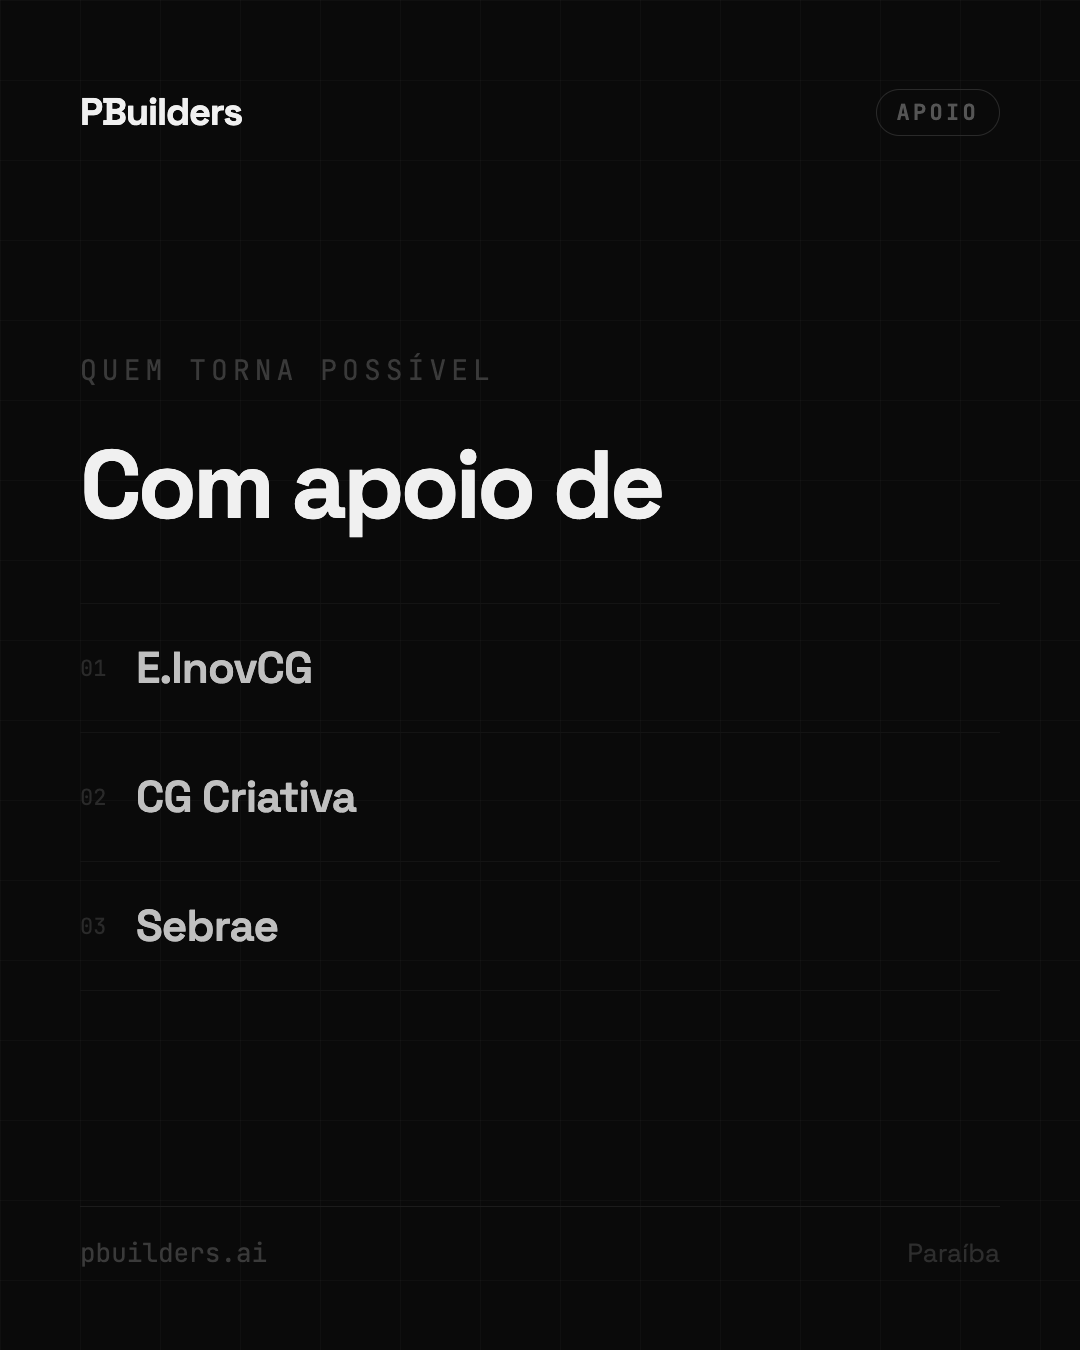
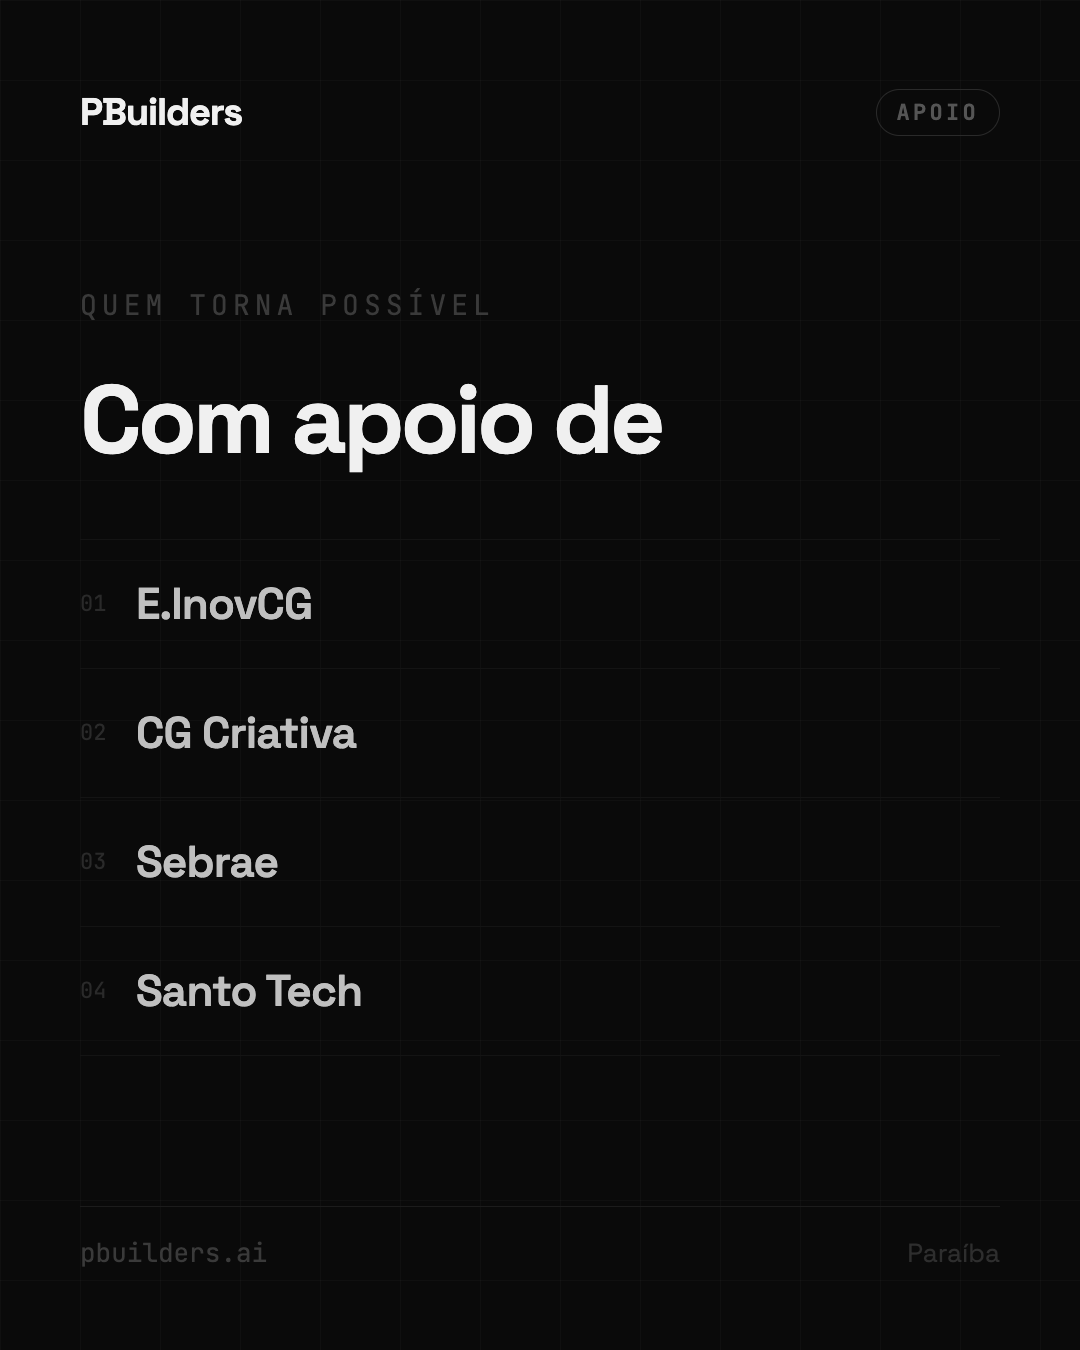
adicionar Santo Tech como apoiador em todos os materiais
Carrossel slide 8, WhatsApp texto e Sympla cadastro.md

Changed region(s): [[0.0611, 0.2178, 0.6111, 0.4044], [0.1222, 0.4356, 0.3361, 0.7467]]

diff --git a/content/2026-04-17-primeiro-encontro/instagram-carousel.html b/content/2026-04-17-primeiro-encontro/instagram-carousel.html
@@ -830,6 +830,10 @@
           <span class="apoio-num">03</span>
           <span class="apoio-name">Sebrae</span>
         </div>
+        <div class="apoio-item">
+          <span class="apoio-num">04</span>
+          <span class="apoio-name">Santo Tech</span>
+        </div>
       </div>
     </div>
 

diff --git a/eventos/ia-sem-hype/midia/sympla/cadastro.md b/eventos/ia-sem-hype/midia/sympla/cadastro.md
@@ -68,7 +68,7 @@ A PBuilders é uma comunidade para quem quer transformar ideias em projetos e so
 
 Organização: PBuilders • pbuilders.ai
 
-Apoio: E.InovCG • CG Criativa • Sebrae
+Apoio: E.InovCG • CG Criativa • Sebrae • Santo Tech
 
 ---
 

diff --git a/eventos/ia-sem-hype/midia/whatsapp/2026-04-16-texto.md b/eventos/ia-sem-hype/midia/whatsapp/2026-04-16-texto.md
@@ -24,4 +24,4 @@ https://sympla.com.br/ia-sem-hype--1-encontro-pbuilders__3389250
 
 Entre no grupo da comunidade: https://pbuilders.ai
 
-Apoio: E.InovCG · CG Criativa · Sebrae
+Apoio: E.InovCG · CG Criativa · Sebrae · Santo Tech
